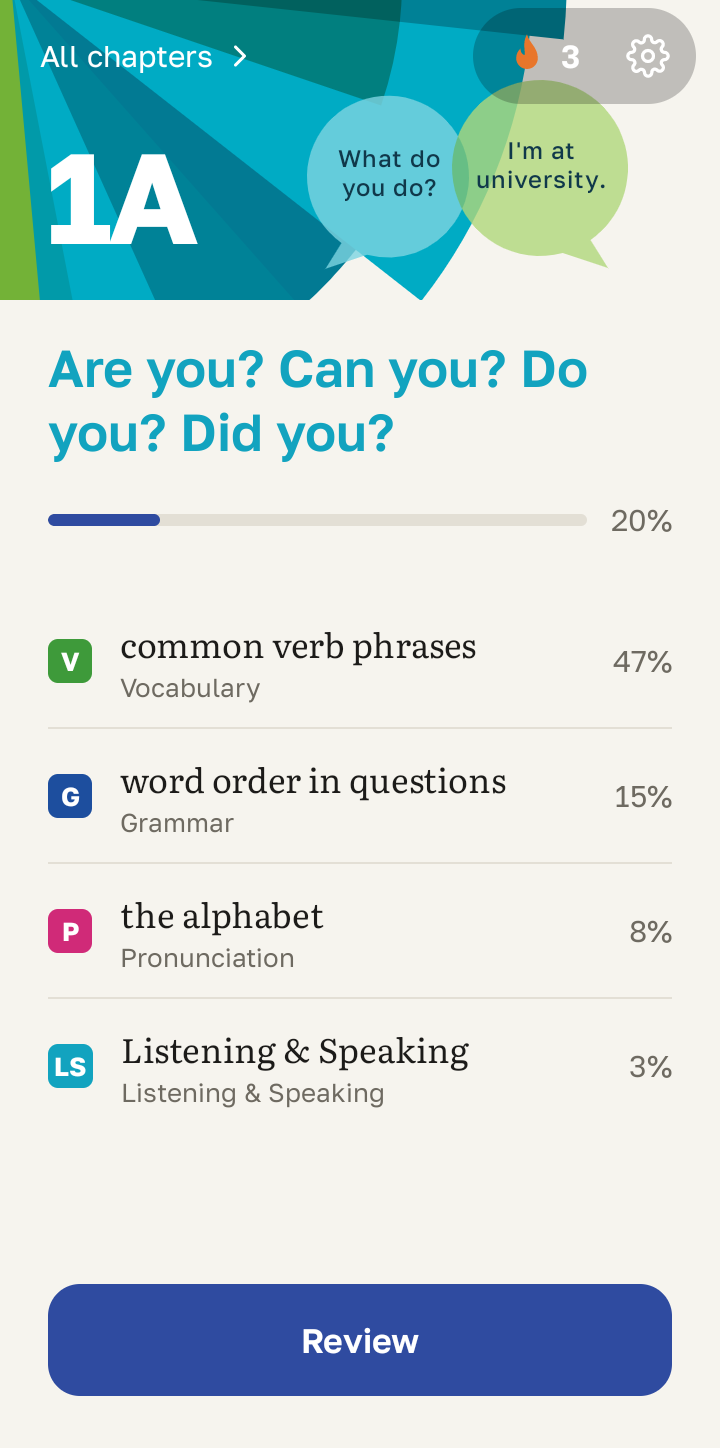
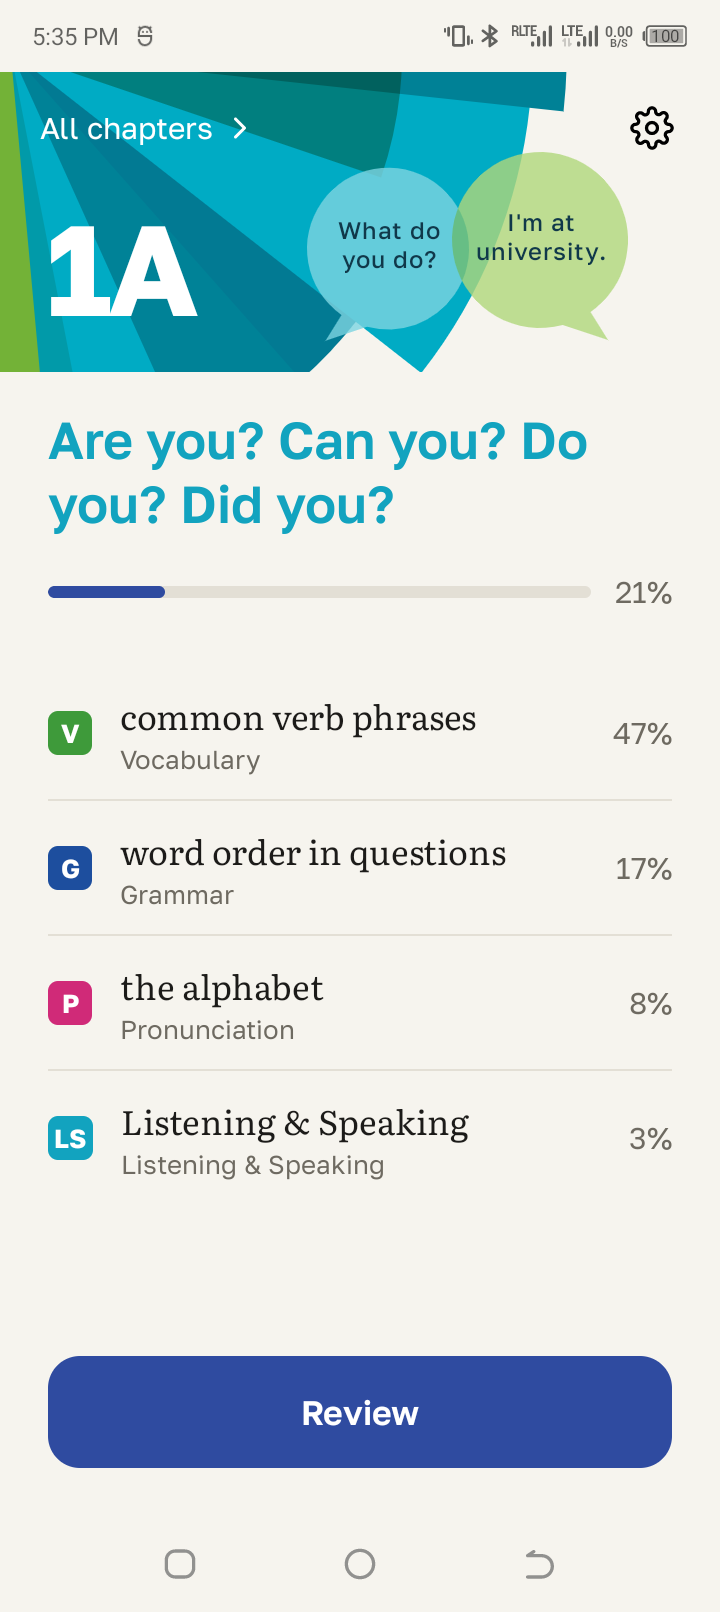
Обновить лендинг под новый интерфейс

diff --git a/landing/index.html b/landing/index.html
@@ -27,11 +27,11 @@
       <div class="hero-copy">
         <h1>Your English File coursebook, as a daily workout</h1>
         <p class="hero-lead">An Android app with all of English File Pre-Intermediate, 4th edition, inside. Every exercise from lesson 1A to 12C is on your phone, and whatever you start to forget comes back for review on its own.</p>
-        <p class="hero-download"><a class="download" href="english-file-trainer.apk" download>Download for Android</a><span class="download-note">APK · 175 MB · Android 12+</span></p>
+        <p class="hero-download"><a class="download" href="english-file-trainer.apk" download>Download for Android</a><span class="download-note">APK · 181 MB · Android 12+</span></p>
       </div>
 
       <figure class="hero-phone">
-        <img class="phone" src="img/main.png" width="720" height="1448" alt="Home screen: lesson 1A, progress by section and a Review button">
+        <img class="phone phone-live" src="img/main.png" width="720" height="1448" alt="Home screen: lesson 1A, progress by section and a Review button">
         <span class="bubble bubble-a" aria-hidden="true">What do you do?</span>
         <span class="bubble bubble-b" aria-hidden="true">I’m at university.</span>
       </figure>
@@ -200,10 +200,10 @@
 
   <section class="progress" aria-labelledby="progress-title">
     <div class="wrap extras-grid extras-grid-flip">
-      <img class="phone extras-phone" src="img/stats.png" width="720" height="1448" loading="lazy" alt="Progress screen: 3 days in a row, activity calendar, weak spots">
+      <img class="phone phone-live extras-phone" src="img/stats.png" width="720" height="1448" loading="lazy" alt="Progress screen: 3 days in a row, activity calendar, weak spots">
       <div class="extras-copy">
         <h2 id="progress-title">See where you slip</h2>
-        <p>Your streak, a calendar of the days you practised, and weak spots: the topics with the most mistakes in the last two weeks. Tap a topic to open its section.</p>
+        <p>Open All chapters and tap Statistics to see your streak, a calendar of the days you practised, and weak spots: the topics with the most mistakes in the last two weeks. Tap a topic to open its section.</p>
       </div>
     </div>
   </section>

diff --git a/landing/style.css b/landing/style.css
@@ -74,6 +74,12 @@ h2 {
   box-shadow: 0 24px 48px -24px rgba(18, 36, 63, .45);
 }
 
+.phone-live {
+  aspect-ratio: 720 / 1448;
+  object-fit: cover;
+  object-position: center 44%;
+}
+
 .hero {
   position: relative;
   color: #fff;
